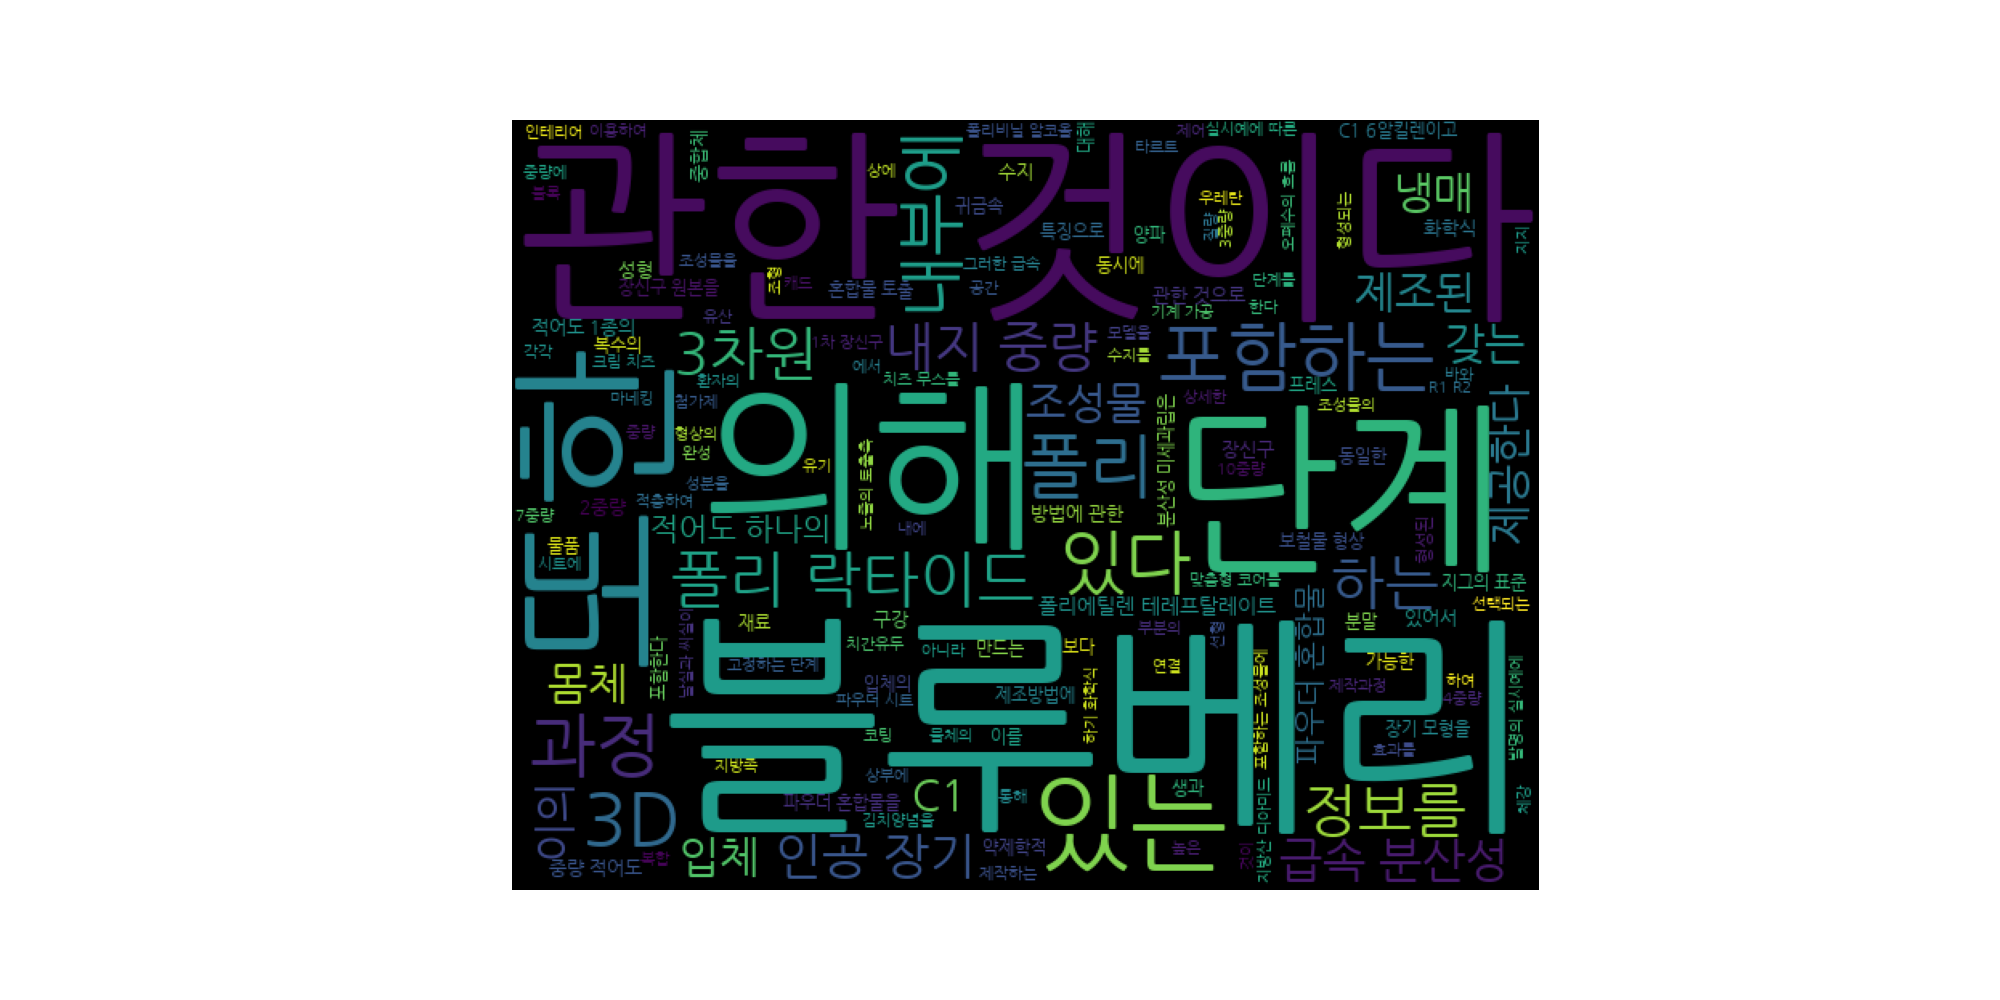
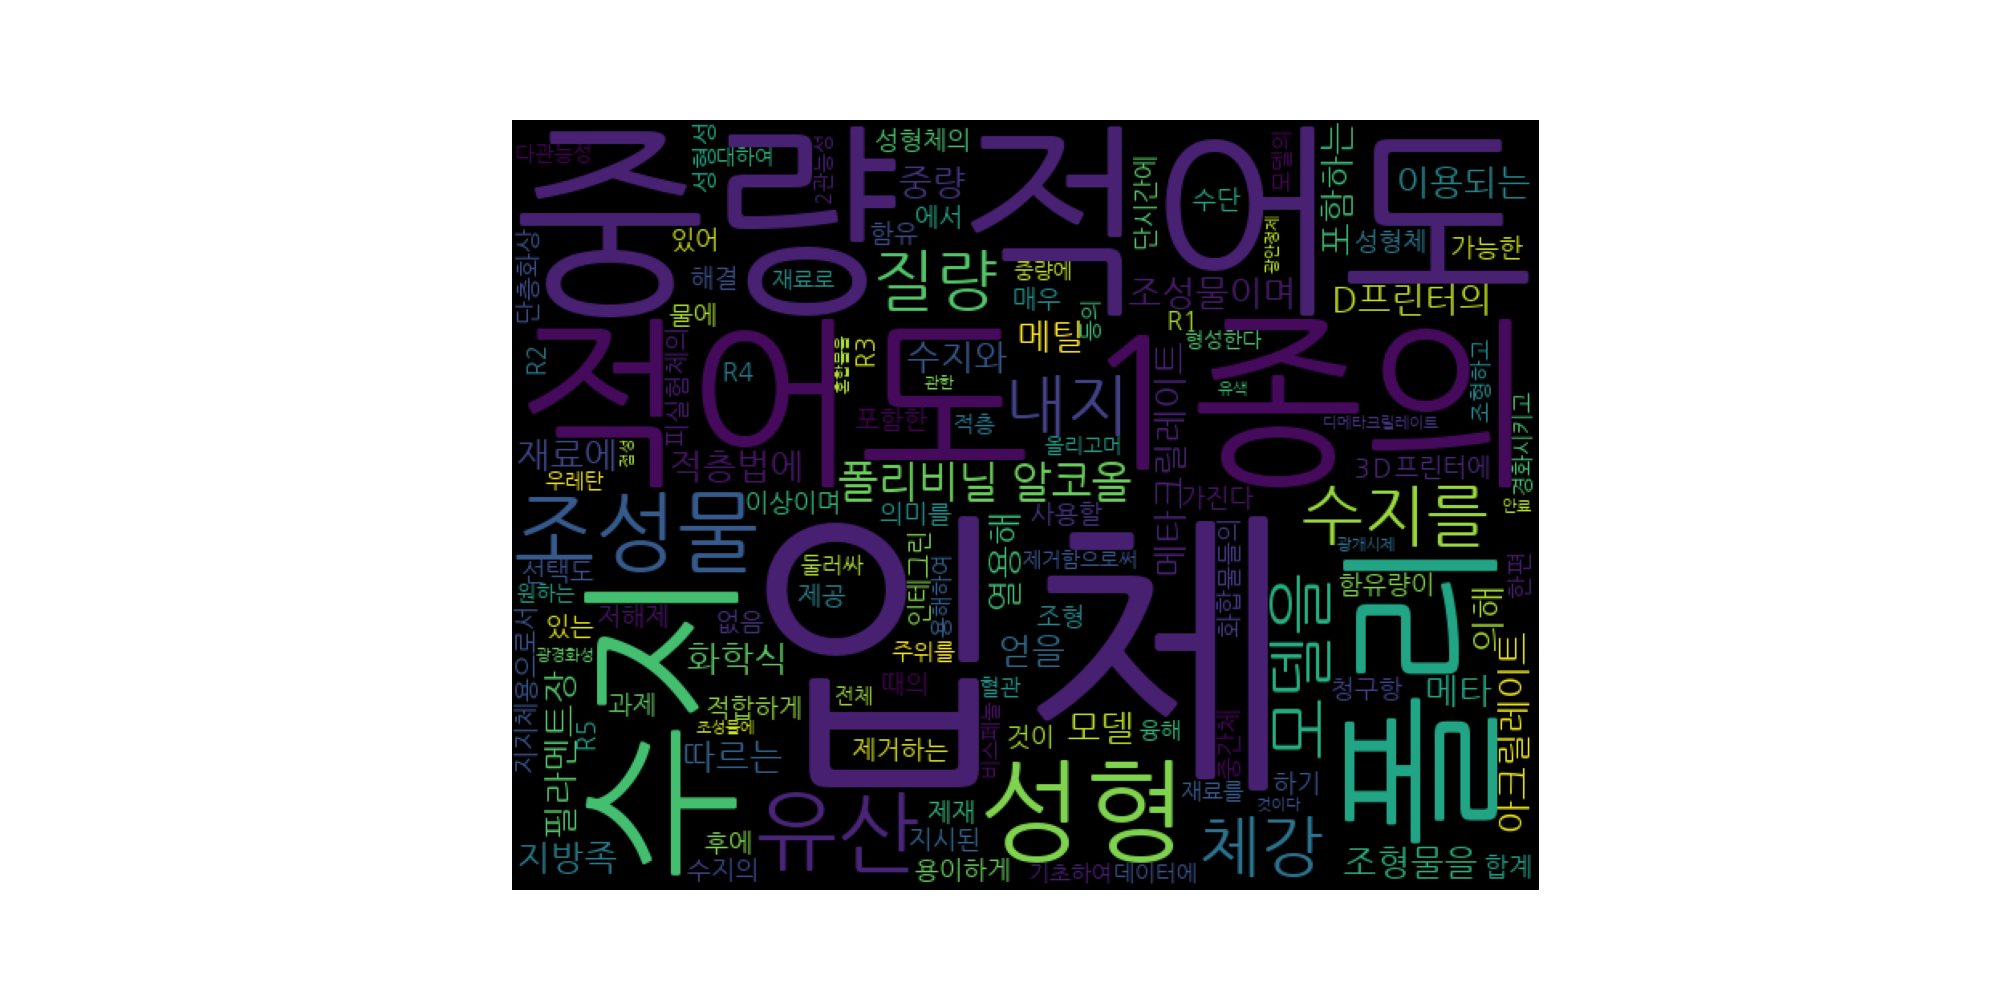
2'nd commit

Changed region(s): [[0.248, 0.124, 0.775, 0.899]]

diff --git a/WordCloudAnimation.py b/WordCloudAnimation.py
@@ -49,6 +49,9 @@ print(sentences[1])
 # tokenized_by_morph = [okt.morphs(s) for s in sentences]
 # tokenized_by_char = [list(s) for s in sentences]
 
+# print(STOPWORDS)
+
+img_path = 'img/'
 stopwords = set(STOPWORDS)
 stopwords.add('방법')
 stopwords.add('위한')
@@ -59,24 +62,38 @@ stopwords.add('상기')
 stopwords.add('발명은')
 stopwords.add('또는')
 # stopwords.add('방법')
-
-img_path = 'img/'
 img_list = []
 img_fn_list = []
 
-# len_img = len(sentences)-1
-for i in range(50):
-    input = ' '.join(sentences[1+i:30+i])
-    wc = WordCloud(font_path=font_path, stopwords=stopwords,
-                   max_words=150, random_state=42,
-                   width=640, height=480).generate(input)
-    # wc.generate(tokenized_by_space)
-    f = plt.figure(figsize=(20, 10))
-    img_list.append(f)
-    plt.imshow(wc)
-    plt.axis("off")
-    img_fn_list.append(img_path+'wordcloud_'+str(i)+'.png')
-    plt.savefig(img_path+'wordcloud_'+str(i)+'.png')
+# for i in range(50):
+#     input = ' '.join(sentences[1 + i:30 + i])
+#     wc = WordCloud(font_path=font_path, stopwords=stopwords,
+#                    max_words=150, random_state=42,
+#                    width=640, height=480).generate(input)
+#     # wc.generate(tokenized_by_space)
+#     f = plt.figure(figsize=(20, 10))
+#     img_list.append(f)
+#     plt.imshow(wc)
+#     plt.axis("off")
+#     img_fn_list.append(img_path + 'wordcloud_' + str(i) + '.png')
+#     plt.savefig(img_path + 'wordcloud_' + str(i) + '.png')
+
+
+def create_wordcloud(text, filter=3, stride=1, padding=0):
+    # len_img = len(sentences)-1
+    for i in range(0, len(text)-filter-1, stride):
+        input = ' '.join(text[1+i:filter+i])
+        wc = WordCloud(font_path=font_path, stopwords=stopwords,
+                       max_words=150, random_state=42,
+                       width=640, height=480).generate(input)
+        # wc.generate(tokenized_by_space)
+        f = plt.figure(figsize=(20, 10))
+        img_list.append(f)
+        plt.imshow(wc)
+        plt.axis("off")
+        img_fn_list.append(img_path+'wordcloud_'+str(i)+'.png')
+        plt.savefig(img_path+'wordcloud_'+str(i)+'.png')
+    return img_fn_list, img_list
 
 
 # def create_animation(images, fpath):
@@ -92,6 +109,8 @@ for i in range(50):
 # images = [imageio.imread(img) for img in img_fn_list]
 # create_animation(images, 'gif/animation3.gif')
 
+# images = create_wordcloud(sentences[:10], filter=3, stride=1)[1]
+img_fn_list = create_wordcloud(sentences[:20], filter=5, stride=5)[0]
 images = [np.array(imageio.imread(img)) for img in img_fn_list]
 imageio.mimsave('gif/animation_abst.gif', images, fps=2)
 #
